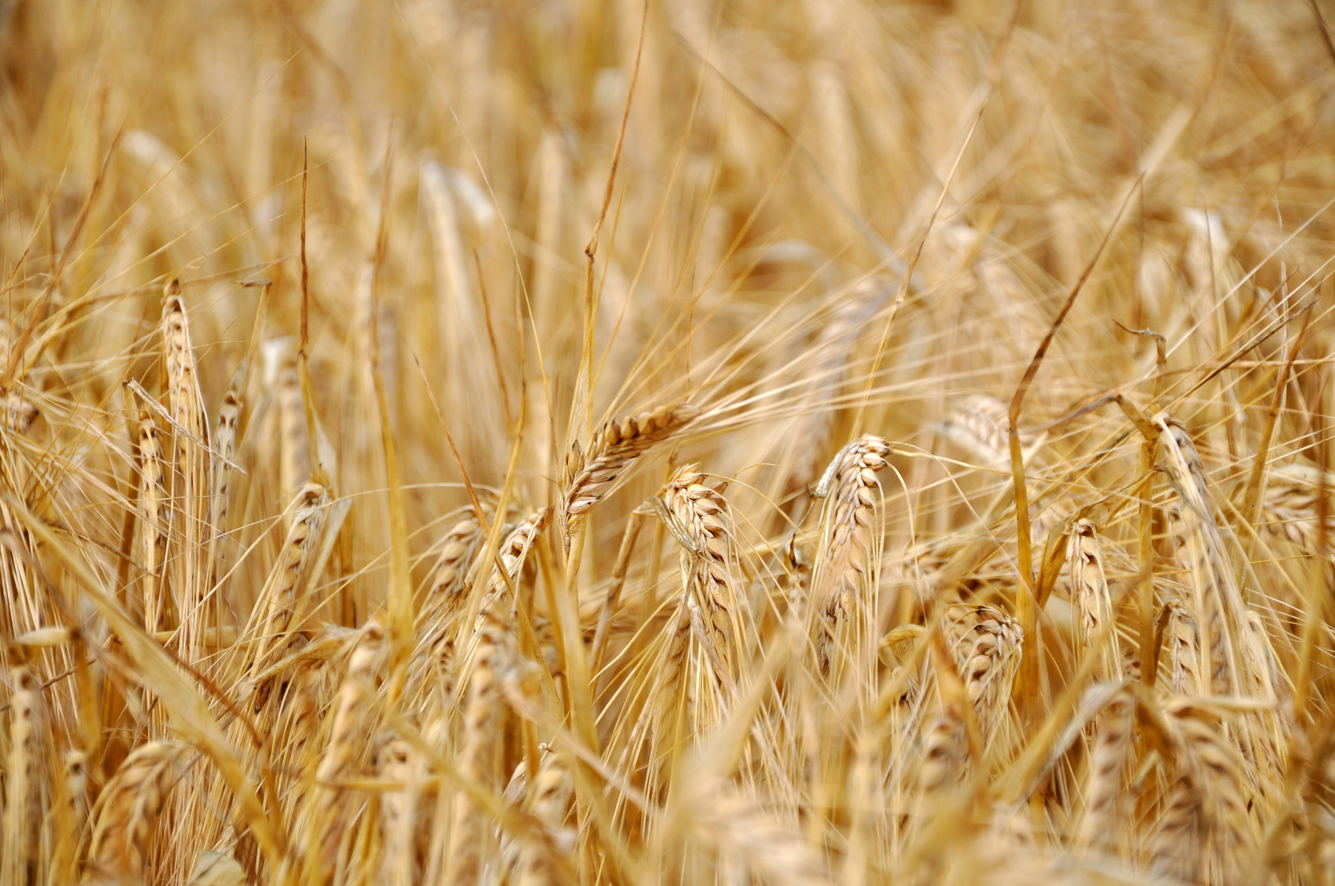
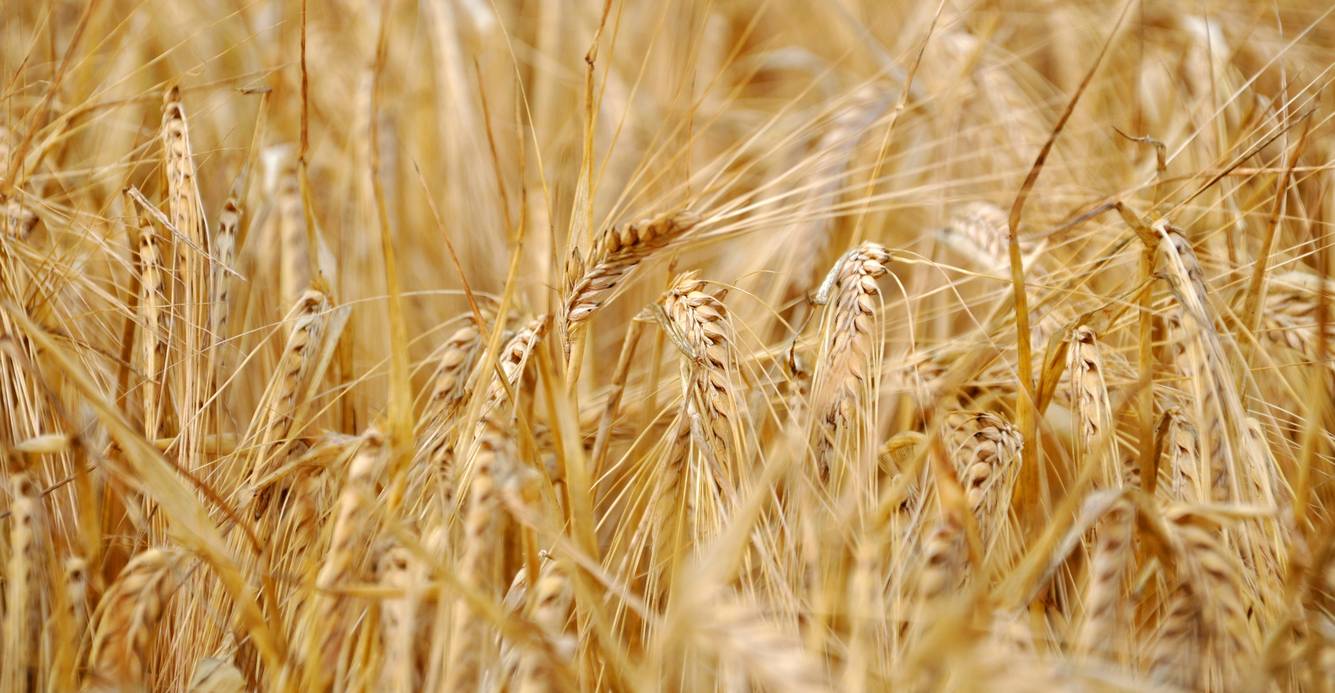
dfg

diff --git a/resources/views/frontend/dashboard/index.blade.php b/resources/views/frontend/dashboard/index.blade.php
@@ -116,26 +116,28 @@
             </ul>
             <div class="carousel-inner">
                 <div class="carousel-item active">
-                    <img class="first-slide" src="/assets/moon/images/newpembaruan.jpg" alt="First slide">
+                    <img class="first-slide" src="/assets/moon/images/newpembaruan.jpg" alt="First slide" style="width: 100vw; height: 100vh; object-fit: cover;">
+
                     <div class="container">
                         <div class="carousel-caption relative">
-                            <h1 style="font-size:60px;">Sihade</h1>
+                            <h1 style="font-size:60px; color:black;">Sihade</h1>
                             <span>Industri Pupuk Alam Hara Makro</span>
                             
-                            <p>Industri pupuk memainkan peran krusial dalam pertanian modern dengan menyediakan hara makro yang diperlukan tanaman untuk tumbuh optimal. Pupuk alam, sebagai alternatif non-sintetis, menawarkan solusi berkelanjutan yang memanfaatkan sumber daya alami untuk meningkatkan kualitas tanah dan hasil panen. Penggunaan pupuk makro ini memastikan bahwa tanaman mendapatkan nutrisi esensial secara seimbang, mendukung produktivitas pertanian dengan cara yang ramah lingkungan.</p>
+                            <p style="color: black;">Industri pupuk memainkan peran krusial dalam pertanian modern dengan menyediakan hara makro yang diperlukan tanaman untuk tumbuh optimal. Pupuk alam, sebagai alternatif non-sintetis, menawarkan solusi berkelanjutan yang memanfaatkan sumber daya alami untuk meningkatkan kualitas tanah dan hasil panen. Penggunaan pupuk makro ini memastikan bahwa tanaman mendapatkan nutrisi esensial secara seimbang, mendukung produktivitas pertanian dengan cara yang ramah lingkungan.</p>
 
-                            <a class="buynow" href="#about">Brosur</a><a class="buynow ggg" href="#">Kontak Kami</a>
+                            <a class="buynow" href="#about">Brosur</a><a class="buynow ggg" href="https://wa.me/62811237916" target="_blank">Kontak Kami</a>
+
 
                         </div>
                     </div>
                 </div>
                 <div class="carousel-item">
-                    <img class="second-slide" src="/assets/moon/images/slide2.jpg" alt="Second slide">
+                    <img class="second-slide" src="/assets/moon/images/slide2.jpg" alt="Second slide" style="width: 100vw; height: 100vh; object-fit: cover;">
                     <div class="container">
                         <div class="carousel-caption relative">
-                            <h1 style="font-size: 60px;">Sihade</h1>
+                            <h1 style="font-size: 60px; color:black;">Sihade</h1>
                             <span>Industri Pupuk Berkelanjutan Hara Makro</span>
-                            <p>Dalam industri pupuk, penggunaan hara makro dari sumber alam menjadi semakin penting untuk mendukung pertanian yang berkelanjutan. Pupuk yang berbasis alam, berbeda dari pupuk sintetis, memanfaatkan bahan-bahan alami untuk memperbaiki kesuburan tanah dan meningkatkan hasil panen. Dengan pendekatan ini, tanaman mendapatkan nutrisi penting yang dibutuhkan secara seimbang, menjaga produktivitas pertanian sambil mengurangi dampak lingkungan.</p>
+                            <p style="color: black;">Dalam industri pupuk, penggunaan hara makro dari sumber alam menjadi semakin penting untuk mendukung pertanian yang berkelanjutan. Pupuk yang berbasis alam, berbeda dari pupuk sintetis, memanfaatkan bahan-bahan alami untuk memperbaiki kesuburan tanah dan meningkatkan hasil panen. Dengan pendekatan ini, tanaman mendapatkan nutrisi penting yang dibutuhkan secara seimbang, menjaga produktivitas pertanian sambil mengurangi dampak lingkungan.</p>
                             {{-- <p>Lorem ipsum dolor sit amet, consectetur adipiscing elit, sed do eiusmod tempor incididunt ut labore et dolore magna aliqua. Ut enim ad minim veniam, quis nostrud exercitation ullamco laboris nisi </p> --}}
                           
                             <a class="buynow" href="#about">Brosur</a><a class="buynow ggg" href="#">Kontak Kami</a>
@@ -144,10 +146,10 @@
                     </div>
                 </div>
                 <div class="carousel-item">
-                    <img class="third-slide" src="/assets/moon/images/slide3.jpg" alt="Third slide">
+                    <img class="third-slide" src="/assets/moon/images/slide3.jpg" alt="Third slide" style="width: 100vw; height: 100vh; object-fit: cover;">
                     <div class="container">
                         <div class="carousel-caption relative">
-                            <h1 style="font-size: 60px;">Sihade</h1>
+                            <h1 style="font-size: 60px; ">Sihade</h1>
                             <span>Industri Pupuk Berbasis Alam Nutrisi</span>
                             <p>Industri pupuk berfokus pada penyediaan hara makro yang vital untuk pertumbuhan tanaman, dengan pupuk alam menawarkan alternatif yang lebih ramah lingkungan dibandingkan dengan pupuk sintetis. Pupuk berbasis alam memanfaatkan bahan alami untuk meningkatkan kualitas tanah dan mendukung kesehatan tanaman. Dengan menggunakan pupuk ini, petani dapat mencapai hasil panen yang optimal sambil menjaga keseimbangan ekosistem dan mengurangi dampak negatif terhadap lingkungan.</p>
                             {{-- <p>Lorem ipsum dolor sit amet, consectetur adipiscing elit, sed do eiusmod tempor incididunt ut labore et dolore magna aliqua. Ut enim ad minim veniam, quis nostrud exercitation ullamco laboris nisi </p> --}}
